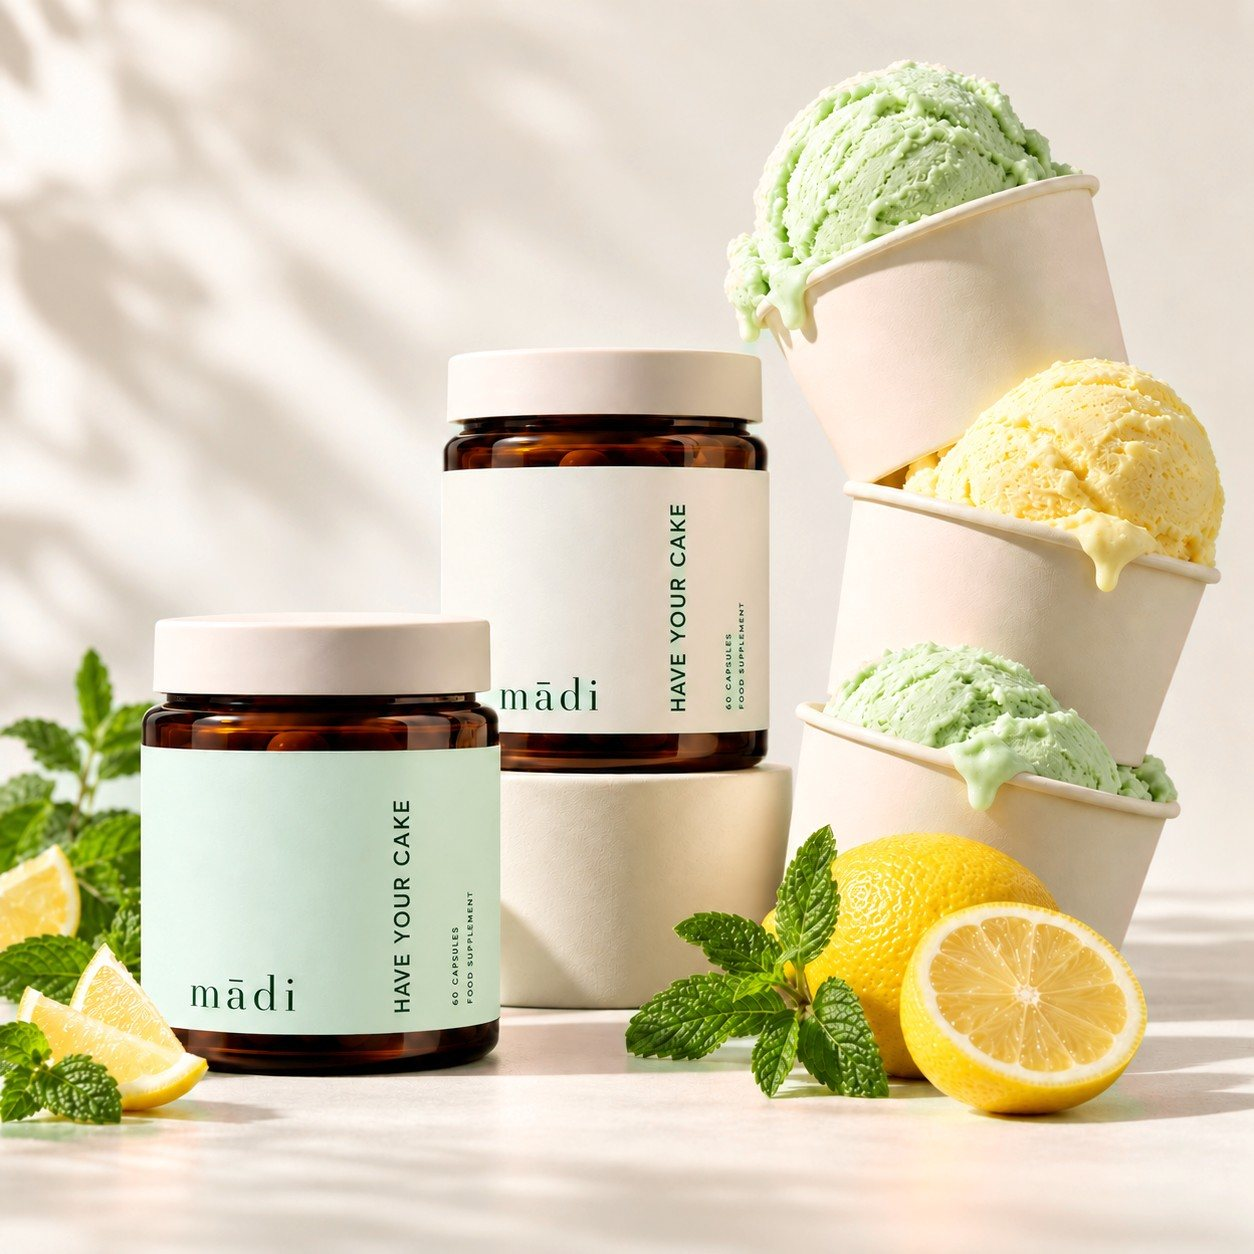
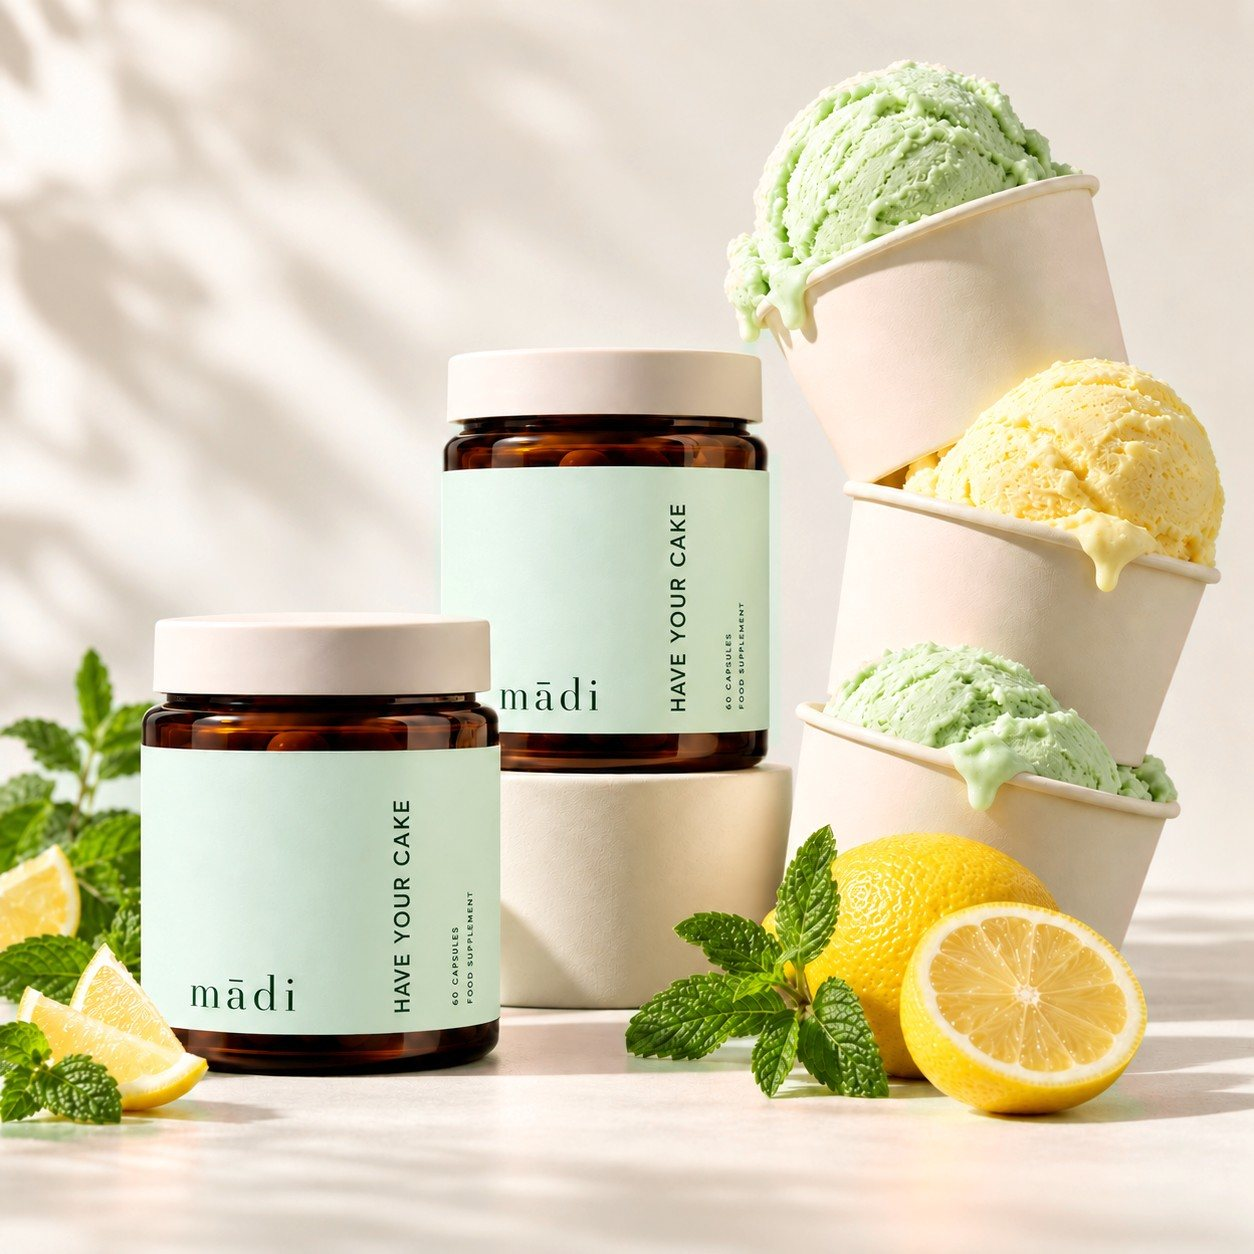
Have Your Cake: obe dózy s mätovou etiketou
Claude-Session: https://claude.ai/code/session_01QEA8oiqCDmsmMpnMAWKymD

Changed region(s): [[0.4976, 0.3732, 0.622, 0.5909]]

diff --git a/partneri.html b/partneri.html
@@ -8,7 +8,7 @@
 <link rel="preconnect" href="https://fonts.googleapis.com">
 <link rel="preconnect" href="https://fonts.gstatic.com" crossorigin>
 <link href="https://fonts.googleapis.com/css2?family=Bodoni+Moda:opsz,wght@6..96,400..600&family=Jost:wght@300;400;500&display=swap" rel="stylesheet">
-<link rel="stylesheet" href="assets/css/style.css?v=1791202266">
+<link rel="stylesheet" href="assets/css/style.css?v=1791202725">
 <style>
   .p-hero{background:linear-gradient(180deg,#F8EEEA 0%,var(--porcelain) 100%);color:var(--ink);padding:96px 0}
   .p-hero .wrap{display:grid;grid-template-columns:minmax(0,1.2fr) minmax(0,1fr);gap:56px;align-items:center}
@@ -66,7 +66,7 @@
         <img src="assets/img/more-botanical.jpg?v=nude1" alt="More and More" loading="lazy">
         <img src="assets/img/cycle-botanical.jpg?v=nude1" alt="Cycle" loading="lazy">
         <img src="assets/img/primetime-botanical.jpg?v=nude1" alt="Primetime" loading="lazy">
-        <img src="assets/img/have-your-cake.jpg?v=nude1" alt="Have Your Cake" loading="lazy">
+        <img src="assets/img/have-your-cake.jpg?v=nude2" alt="Have Your Cake" loading="lazy">
         <img src="assets/img/set-botanical.jpg?v=nude1" alt="Akciové balenie Daily Hydrate + fľaša" loading="lazy">
       </div>
     </div>
@@ -133,8 +133,8 @@
     </div>
   </section>
 </main>
-<script src="assets/js/products.js?v=1791202266"></script>
-<script src="assets/js/app.js?v=1791202266"></script>
+<script src="assets/js/products.js?v=1791202725"></script>
+<script src="assets/js/app.js?v=1791202725"></script>
 <script>
 document.getElementById("partnerForm").addEventListener("submit", function(e){
   e.preventDefault();

diff --git a/pokladna.html b/pokladna.html
@@ -7,7 +7,7 @@
 <link rel="preconnect" href="https://fonts.googleapis.com">
 <link rel="preconnect" href="https://fonts.gstatic.com" crossorigin>
 <link href="https://fonts.googleapis.com/css2?family=Bodoni+Moda:opsz,wght@6..96,400..600&family=Jost:wght@300;400;500&display=swap" rel="stylesheet">
-<link rel="stylesheet" href="assets/css/style.css?v=1791202266">
+<link rel="stylesheet" href="assets/css/style.css?v=1791202725">
 <style>
   .co{display:grid;grid-template-columns:minmax(0,1.2fr) minmax(0,1fr);gap:56px;padding:48px 0 96px}
   @media (max-width:900px){.co{grid-template-columns:minmax(0,1fr)}.summary{position:static}}
@@ -65,8 +65,8 @@
     </aside>
   </div>
 </main>
-<script src="assets/js/products.js?v=1791202266"></script>
-<script src="assets/js/app.js?v=1791202266"></script>
+<script src="assets/js/products.js?v=1791202725"></script>
+<script src="assets/js/app.js?v=1791202725"></script>
 <script>
 (function(){
   const { byId, eur, store } = window.MADI;

diff --git a/produkt.html b/produkt.html
@@ -7,7 +7,7 @@
 <link rel="preconnect" href="https://fonts.googleapis.com">
 <link rel="preconnect" href="https://fonts.gstatic.com" crossorigin>
 <link href="https://fonts.googleapis.com/css2?family=Bodoni+Moda:opsz,wght@6..96,400..600&family=Jost:wght@300;400;500&display=swap" rel="stylesheet">
-<link rel="stylesheet" href="assets/css/style.css?v=1791202266">
+<link rel="stylesheet" href="assets/css/style.css?v=1791202725">
 <script defer src="/_vercel/insights/script.js"></script>
 </head>
 <body>
@@ -22,9 +22,9 @@
     </div>
   </section>
 </main>
-<script src="assets/js/products.js?v=1791202266"></script>
-<script src="assets/js/app.js?v=1791202266"></script>
-<script src="assets/js/buybox.js?v=1791202266"></script>
+<script src="assets/js/products.js?v=1791202725"></script>
+<script src="assets/js/app.js?v=1791202725"></script>
+<script src="assets/js/buybox.js?v=1791202725"></script>
 <script>
 (function(){
   const { byId, eur, media } = window.MADI;

diff --git a/index.html b/index.html
@@ -8,7 +8,7 @@
 <link rel="preconnect" href="https://fonts.googleapis.com">
 <link rel="preconnect" href="https://fonts.gstatic.com" crossorigin>
 <link href="https://fonts.googleapis.com/css2?family=Bodoni+Moda:opsz,wght@6..96,400..600&family=Jost:wght@300;400;500&display=swap" rel="stylesheet">
-<link rel="stylesheet" href="assets/css/style.css?v=1791202266">
+<link rel="stylesheet" href="assets/css/style.css?v=1791202725">
 <script defer src="/_vercel/insights/script.js"></script>
 </head>
 <body>
@@ -114,9 +114,9 @@
   </section>
 </main>
 
-<script src="assets/js/products.js?v=1791202266"></script>
-<script src="assets/js/app.js?v=1791202266"></script>
-<script src="assets/js/buybox.js?v=1791202266"></script>
+<script src="assets/js/products.js?v=1791202725"></script>
+<script src="assets/js/app.js?v=1791202725"></script>
+<script src="assets/js/buybox.js?v=1791202725"></script>
 <script>
 (function(){
   const { eur, media } = window.MADI;

diff --git a/faq.html b/faq.html
@@ -8,7 +8,7 @@
 <link rel="preconnect" href="https://fonts.googleapis.com">
 <link rel="preconnect" href="https://fonts.gstatic.com" crossorigin>
 <link href="https://fonts.googleapis.com/css2?family=Bodoni+Moda:opsz,wght@6..96,400..600&family=Jost:wght@300;400;500&display=swap" rel="stylesheet">
-<link rel="stylesheet" href="assets/css/style.css?v=1791202266">
+<link rel="stylesheet" href="assets/css/style.css?v=1791202725">
 <style>
   .faq-hero{background:var(--blush);padding:88px 0 72px}
   .faq-hero h1{font-family:var(--display);font-weight:400;font-size:clamp(46px,6vw,84px);line-height:.95;margin:0 0 16px;color:var(--fuchsia)}
@@ -100,7 +100,7 @@
     </div>
   </section>
 </main>
-<script src="assets/js/products.js?v=1791202266"></script>
-<script src="assets/js/app.js?v=1791202266"></script>
+<script src="assets/js/products.js?v=1791202725"></script>
+<script src="assets/js/app.js?v=1791202725"></script>
 </body>
 </html>

diff --git a/o-nas.html b/o-nas.html
@@ -8,7 +8,7 @@
 <link rel="preconnect" href="https://fonts.googleapis.com">
 <link rel="preconnect" href="https://fonts.gstatic.com" crossorigin>
 <link href="https://fonts.googleapis.com/css2?family=Bodoni+Moda:opsz,wght@6..96,400..600&family=Jost:wght@300;400;500&display=swap" rel="stylesheet">
-<link rel="stylesheet" href="assets/css/style.css?v=1791202266">
+<link rel="stylesheet" href="assets/css/style.css?v=1791202725">
 <style>
   .about-hero{background:var(--blush);padding:96px 0 88px}
   .about-hero .wrap{display:grid;grid-template-columns:minmax(0,1.3fr) minmax(0,1fr);gap:64px;align-items:end}
@@ -125,7 +125,7 @@
     </div>
   </section>
 </main>
-<script src="assets/js/products.js?v=1791202266"></script>
-<script src="assets/js/app.js?v=1791202266"></script>
+<script src="assets/js/products.js?v=1791202725"></script>
+<script src="assets/js/app.js?v=1791202725"></script>
 </body>
 </html>

diff --git a/assets/js/products.js b/assets/js/products.js
@@ -254,8 +254,8 @@ window.MADI_PRODUCTS = [
     reviews: 12,
     badge: "Novinka",
     theme: "sand",
-    image: "assets/img/have-your-cake.jpg?v=nude1",
-    gallery: ["assets/img/have-your-cake.jpg?v=nude1"],
+    image: "assets/img/have-your-cake.jpg?v=nude2",
+    gallery: ["assets/img/have-your-cake.jpg?v=nude2"],
     available: true,
     tiers: true,
     description:
